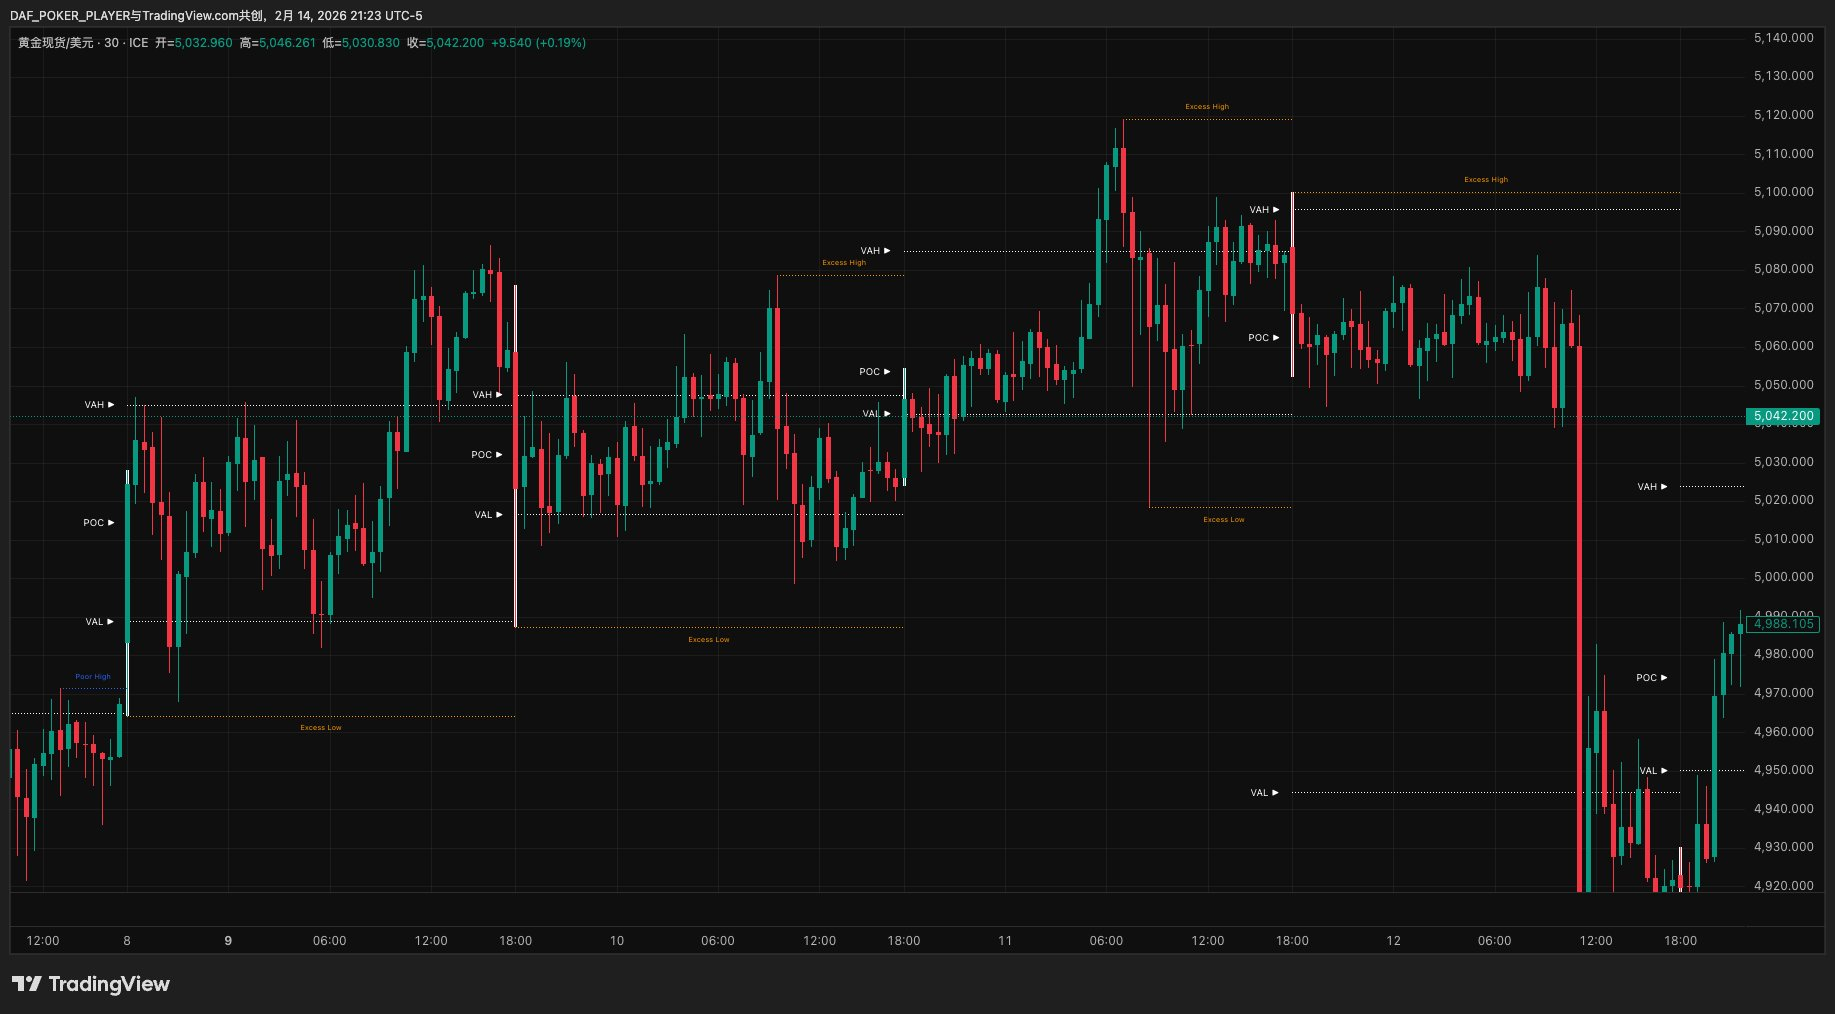
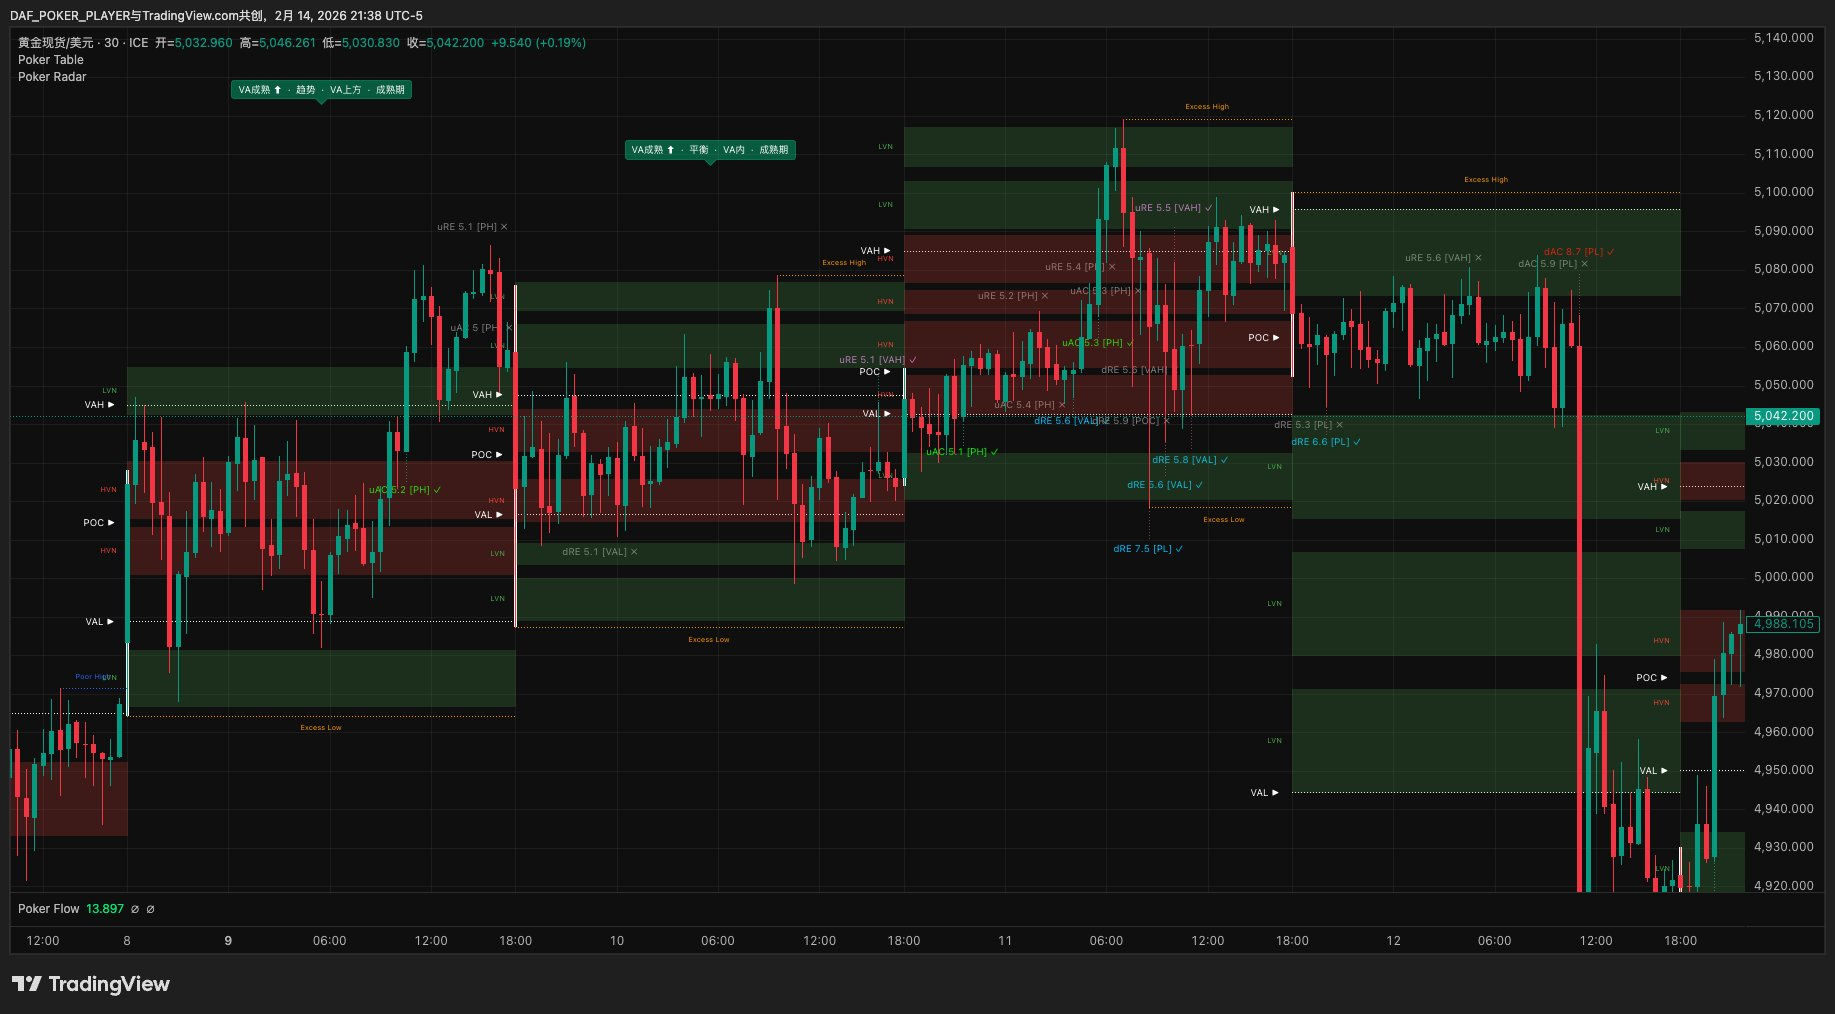
v4.0.6.8 · Ch1第三组截图更新（Table+Radar双层分工展示）

diff --git a/full-strategy-v4.0.6.8.md b/full-strategy-v4.0.6.8.md
@@ -1,6 +1,6 @@
-# Poker Trading Handbook · v4.0.6.7
+# Poker Trading Handbook · v4.0.6.8
 
-编译时间：2026-02-15 02:34 UTC
+编译时间：2026-02-15 02:40 UTC
 
 ---
 
@@ -246,7 +246,7 @@ Excess和PH/PL都出现在周期的高低点区域，但检测方式完全不同
 
 直觉理解：**Excess像一扇砰地关上的门**——价格碰了一下就弹走了，没人愿意在那个价格交易，边界非常牢固。**Poor像一扇虚掩的门**——很多人在门口挤来挤去，说明大家对"要不要进去"还有分歧，边界不牢固，价格可能回来再推一次。
 
-![第三组：黄金现货30分钟图，Table识别Excess High（顶部VP尾部尖锐，红色虚线标注）和Excess Low（底部VP尾部尖锐），以及Poor High（左侧第一天顶部肥厚尾部）。对比可见Excess=门关了、Poor=门没关](images/ch1-group3-excess.png)
+![第三组：黄金现货30分钟图，Poker Table + Poker Radar同时开启。Table标记Excess High（顶部VP尾部尖锐）、Excess Low（底部VP尾部尖锐）、Poor High（左侧第一天肥厚尾部）。Radar信号标签同时可见（如dRE 7.5 [PL]✓、uRE 5.5 [VAH]✓），展示Table画线+识别Excess、Radar在线上捕信号的两层分工](images/ch1-group3-excess.png)
 
 > ✅ **检查点：** Excess High/Low由Table在VP级别识别，和Table画出、Radar捕信号的PH/PL是不同机制观察同一片战场。Excess=门关了（一级边界，发牌），Poor=门没关（不发牌）。
 

diff --git a/chapters/ch1-world.md b/chapters/ch1-world.md
@@ -145,7 +145,7 @@ Excess和PH/PL都出现在周期的高低点区域，但检测方式完全不同
 
 直觉理解：**Excess像一扇砰地关上的门**——价格碰了一下就弹走了，没人愿意在那个价格交易，边界非常牢固。**Poor像一扇虚掩的门**——很多人在门口挤来挤去，说明大家对"要不要进去"还有分歧，边界不牢固，价格可能回来再推一次。
 
-![第三组：黄金现货30分钟图，Table识别Excess High（顶部VP尾部尖锐，红色虚线标注）和Excess Low（底部VP尾部尖锐），以及Poor High（左侧第一天顶部肥厚尾部）。对比可见Excess=门关了、Poor=门没关](../images/ch1-group3-excess.png)
+![第三组：黄金现货30分钟图，Poker Table + Poker Radar同时开启。Table标记Excess High（顶部VP尾部尖锐）、Excess Low（底部VP尾部尖锐）、Poor High（左侧第一天肥厚尾部）。Radar信号标签同时可见（如dRE 7.5 [PL]✓、uRE 5.5 [VAH]✓），展示Table画线+识别Excess、Radar在线上捕信号的两层分工](../images/ch1-group3-excess.png)
 
 > ✅ **检查点：** Excess High/Low由Table在VP级别识别，和Table画出、Radar捕信号的PH/PL是不同机制观察同一片战场。Excess=门关了（一级边界，发牌），Poor=门没关（不发牌）。
 
